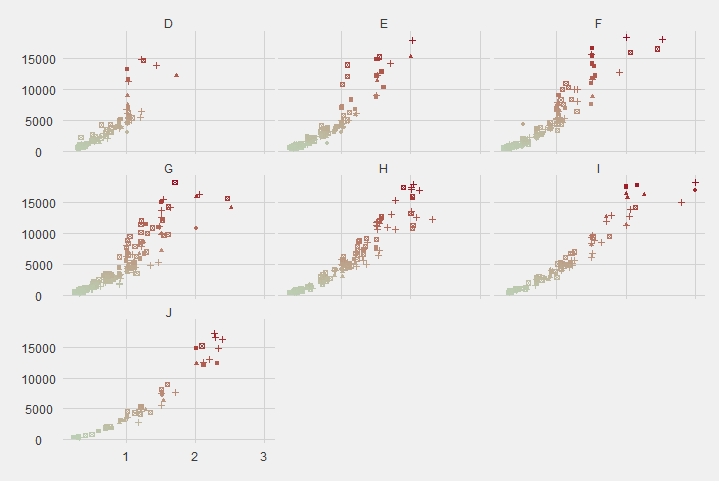
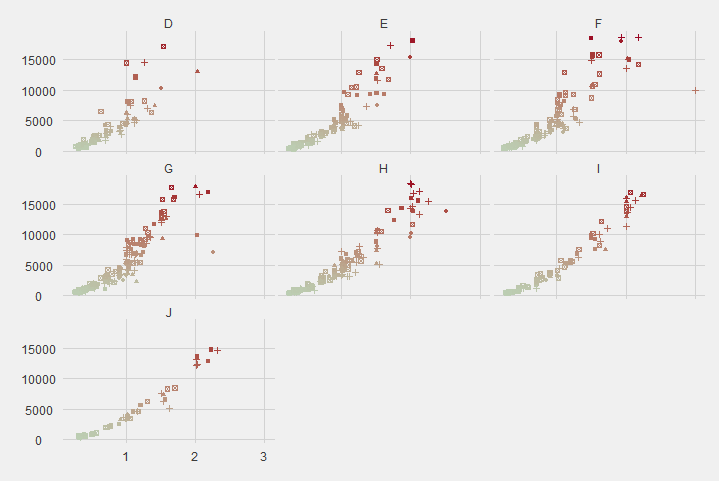
uploading changes

diff --git a/_posts/1968-04-02-this-is-a-test-from-the-space.md b/_posts/1968-04-02-this-is-a-test-from-the-space.md
@@ -5,8 +5,15 @@ categories: R
 layout: post
 featured_image: /images/this-is-a-test-from-the-space/featured_image-1.png
 ---
+# The setup when you spin!
+This usually is `echo=FALSE
 
 
+```r
+rm(list = ls())
+library("printr")
+knitr::opts_knit$set(root.dir  = normalizePath(".."))
+```
 
 This post have some considerations to have when write a post via: 
 r script > spind > md and testing r srcipt > html_fragment:
@@ -50,12 +57,12 @@ head(test)
 
 |      | carat|cut       |color |clarity | depth| table| price|    x|    y|    z|
 |:-----|-----:|:---------|:-----|:-------|-----:|-----:|-----:|----:|----:|----:|
-|43371 |  0.58|Ideal     |F     |SI1     |  61.4|    57|  1408| 5.33| 5.38| 3.29|
-|29068 |  0.40|Very Good |E     |SI1     |  63.0|    57|   687| 4.65| 4.68| 2.94|
-|38853 |  0.40|Premium   |G     |VVS2    |  61.1|    58|  1050| 4.76| 4.74| 2.90|
-|43931 |  0.30|Ideal     |I     |VVS2    |  62.2|    56|   515| 4.27| 4.31| 2.67|
-|25253 |  1.43|Premium   |D     |VS2     |  62.6|    59| 13873| 7.19| 7.21| 4.51|
-|17077 |  1.20|Very Good |E     |SI1     |  61.0|    58|  6809| 6.83| 6.88| 4.18|
+|10188 |  1.33|Premium   |F     |SI2     |  60.4|    60|  4737| 7.17| 7.11| 4.31|
+|34273 |  0.25|Very Good |H     |VVS1    |  61.6|    56|   467| 4.07| 4.10| 2.51|
+|46207 |  0.51|Ideal     |G     |VVS2    |  62.0|    57|  1750| 5.10| 5.13| 3.17|
+|39601 |  0.30|Ideal     |I     |VS1     |  61.0|    58|   491| 4.30| 4.33| 2.63|
+|19550 |  1.02|Ideal     |D     |VS1     |  60.5|    56|  8181| 6.55| 6.48| 3.94|
+|38827 |  0.42|Ideal     |G     |VS2     |  61.9|    57|  1048| 4.83| 4.79| 2.98|
 
 And this is who we can plot! :D
 
@@ -94,6 +101,8 @@ head(mtcars)
 | 18.7|   8|  360| 175| 3.15| 3.44| 17.0|  0|  0|    3|    2|
 | 18.1|   6|  225| 105| 2.76| 3.46| 20.2|  1|  0|    3|    1|
 
+# To generate the featured image.
+
 According with http://yihui.name/knitr/options/, dpi: (72; numeric) the
 DPI (dots per inch) for bitmap devices (dpi * inches = pixels) so:
 
@@ -120,5 +129,10 @@ fig.height
 ```
 ## [1] 6.67
 ```
+
+This template need a 720 x 480 image. So at the final of the script
+I generate a chunk named *featured_image*, with parameters: echo=FALSE,
+fig.width=10, fig.height=6.7, dpi=72 and fig.show='hide'.
+
 
 
